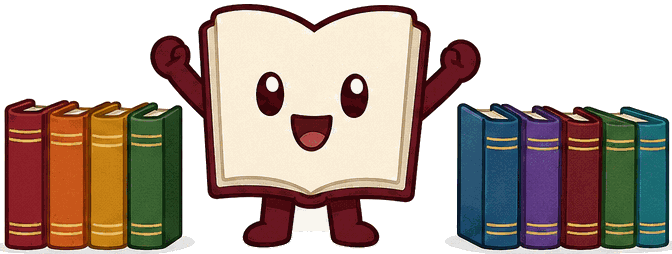
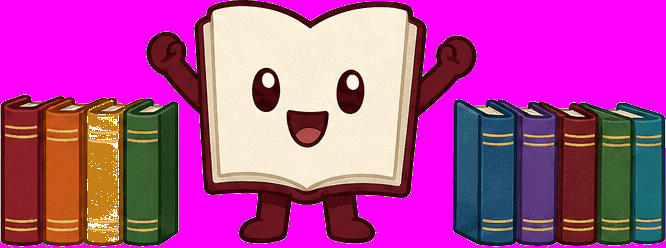
Bigger Booky, white cartoon balloon, clean sprite edges
The sidebar mascot was too small and its speech card blended into the
theme. The bubble is now a white cartoon balloon that stays white in every
theme, floating above Booky's head with a little tail, and the mascot itself
grew from 64px to a 112px-tall figure.

The sprites are re-sliced from the character sheet with a stricter content
mask and a much wider background flood, which removes the pale panel-border
halo that showed as white edges on dark backgrounds. Icon files regenerated
with the same cleanup.

diff --git a/Bookcord/src/components/layout/mascot-tip.tsx b/Bookcord/src/components/layout/mascot-tip.tsx
@@ -106,8 +106,9 @@ function tipFor(pathname: string): Tip {
 }
 
 /**
- * The mascot + a little speech bubble pinned to the bottom of the sidebar.
- * The pose and the line glide over when the route changes.
+ * The mascot + a cartoon speech balloon pinned to the bottom of the sidebar.
+ * The white bubble sits above Booky's head with a little tail, and both the
+ * pose and the line glide over when the route changes.
  */
 export function MascotTip({ pathnameOverride }: { pathnameOverride?: string }) {
   const routePathname = usePathname();
@@ -115,14 +116,41 @@ export function MascotTip({ pathnameOverride }: { pathnameOverride?: string }) {
   const tip = tipFor(pathname);
 
   return (
-    <div className="flex items-end gap-2.5 px-1" aria-label="Booky says">
-      <div className="relative size-16 shrink-0" role="img" aria-label={tip.alt}>
+    <div
+      className="flex flex-col items-center gap-2 px-1"
+      aria-label="Booky says"
+    >
+      {/* Cartoon balloon — stays white in every theme, like a comic strip. */}
+      <div className="relative w-full rounded-2xl bg-white px-3.5 py-2.5 shadow-[0_12px_28px_-18px_rgba(0,0,0,0.7)]">
+        <AnimatePresence initial={false} mode="wait">
+          <motion.p
+            key={pathname}
+            initial={{ opacity: 0, y: 4 }}
+            animate={{ opacity: 1, y: 0 }}
+            exit={{ opacity: 0, y: -4 }}
+            transition={{ duration: 0.18 }}
+            className="text-xs leading-relaxed text-[#472a21]"
+          >
+            {tip.text}
+          </motion.p>
+        </AnimatePresence>
+        <span
+          className="absolute -bottom-[5px] left-1/2 size-2.5 -translate-x-1/2 rotate-45 bg-white"
+          aria-hidden="true"
+        />
+      </div>
+
+      <div
+        className="relative h-28 w-full"
+        role="img"
+        aria-label={tip.alt}
+      >
         <AnimatePresence initial={false} mode="popLayout">
           <motion.span
             key={pathname}
-            initial={{ opacity: 0, y: 8, scale: 0.94 }}
+            initial={{ opacity: 0, y: 10, scale: 0.94 }}
             animate={{ opacity: 1, y: 0, scale: 1 }}
-            exit={{ opacity: 0, y: -8, scale: 0.94 }}
+            exit={{ opacity: 0, y: -10, scale: 0.94 }}
             transition={{ type: "spring", stiffness: 420, damping: 30 }}
             className="absolute inset-0"
           >
@@ -132,21 +160,6 @@ export function MascotTip({ pathnameOverride }: { pathnameOverride?: string }) {
               className="size-full object-contain object-bottom"
             />
           </motion.span>
-        </AnimatePresence>
-      </div>
-
-      <div className="relative min-w-0 flex-1 rounded-2xl rounded-bl-md bg-card px-3.5 py-2.5 shadow-shelf ring-1 ring-border">
-        <AnimatePresence initial={false} mode="wait">
-          <motion.p
-            key={pathname}
-            initial={{ opacity: 0, y: 4 }}
-            animate={{ opacity: 1, y: 0 }}
-            exit={{ opacity: 0, y: -4 }}
-            transition={{ duration: 0.18 }}
-            className="relative text-xs leading-relaxed text-foreground"
-          >
-            {tip.text}
-          </motion.p>
         </AnimatePresence>
       </div>
     </div>
